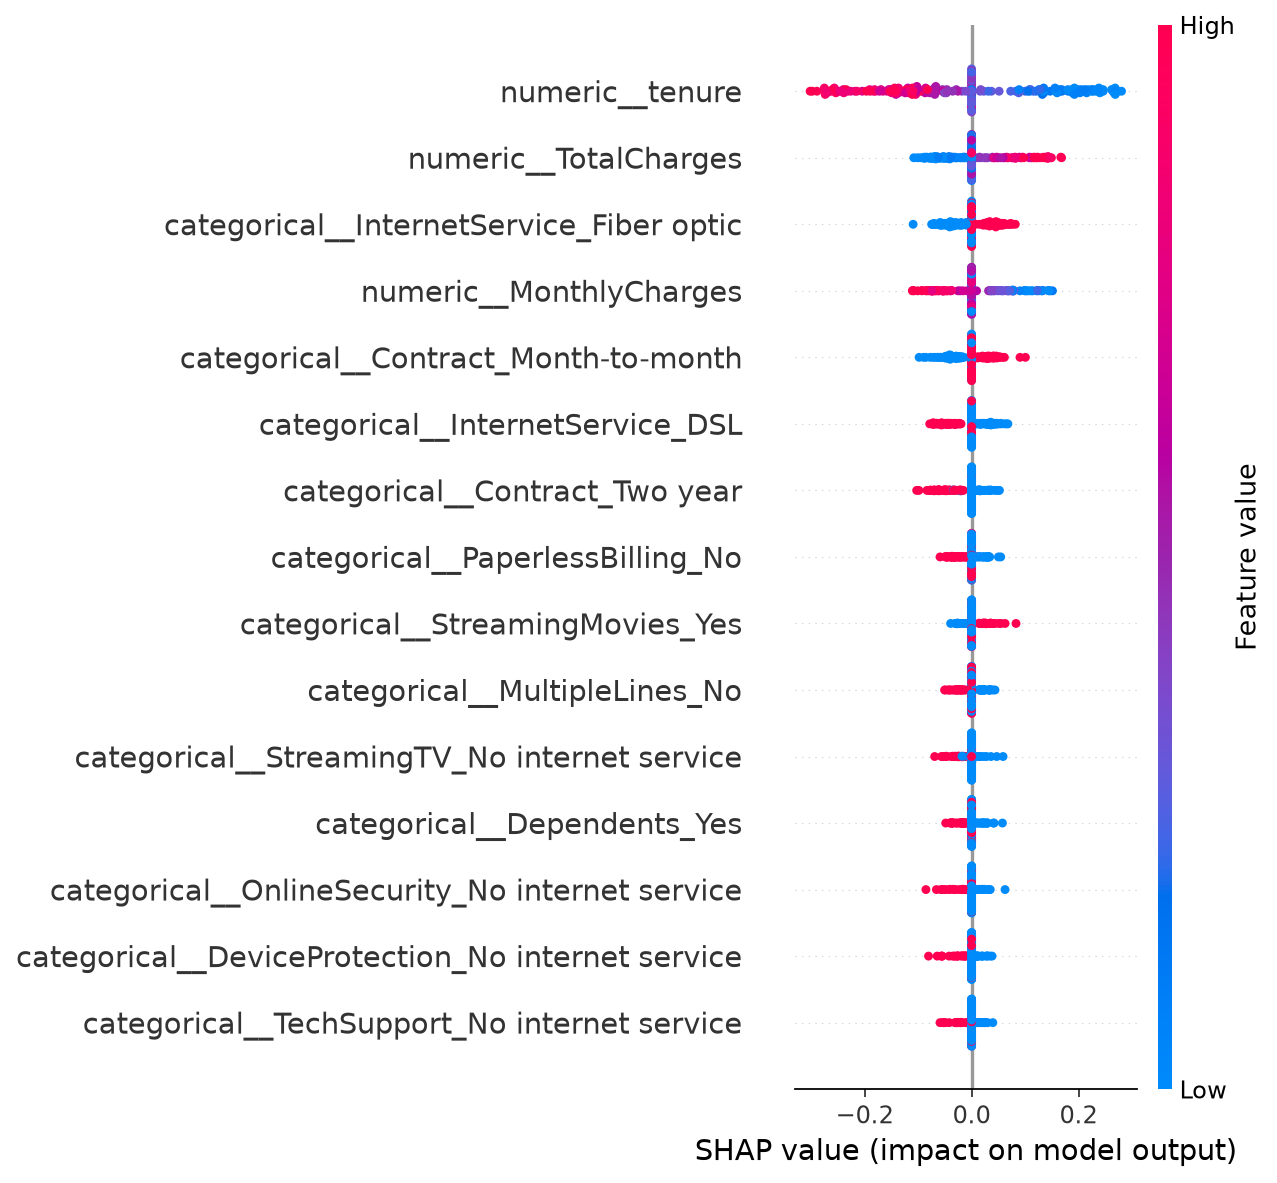
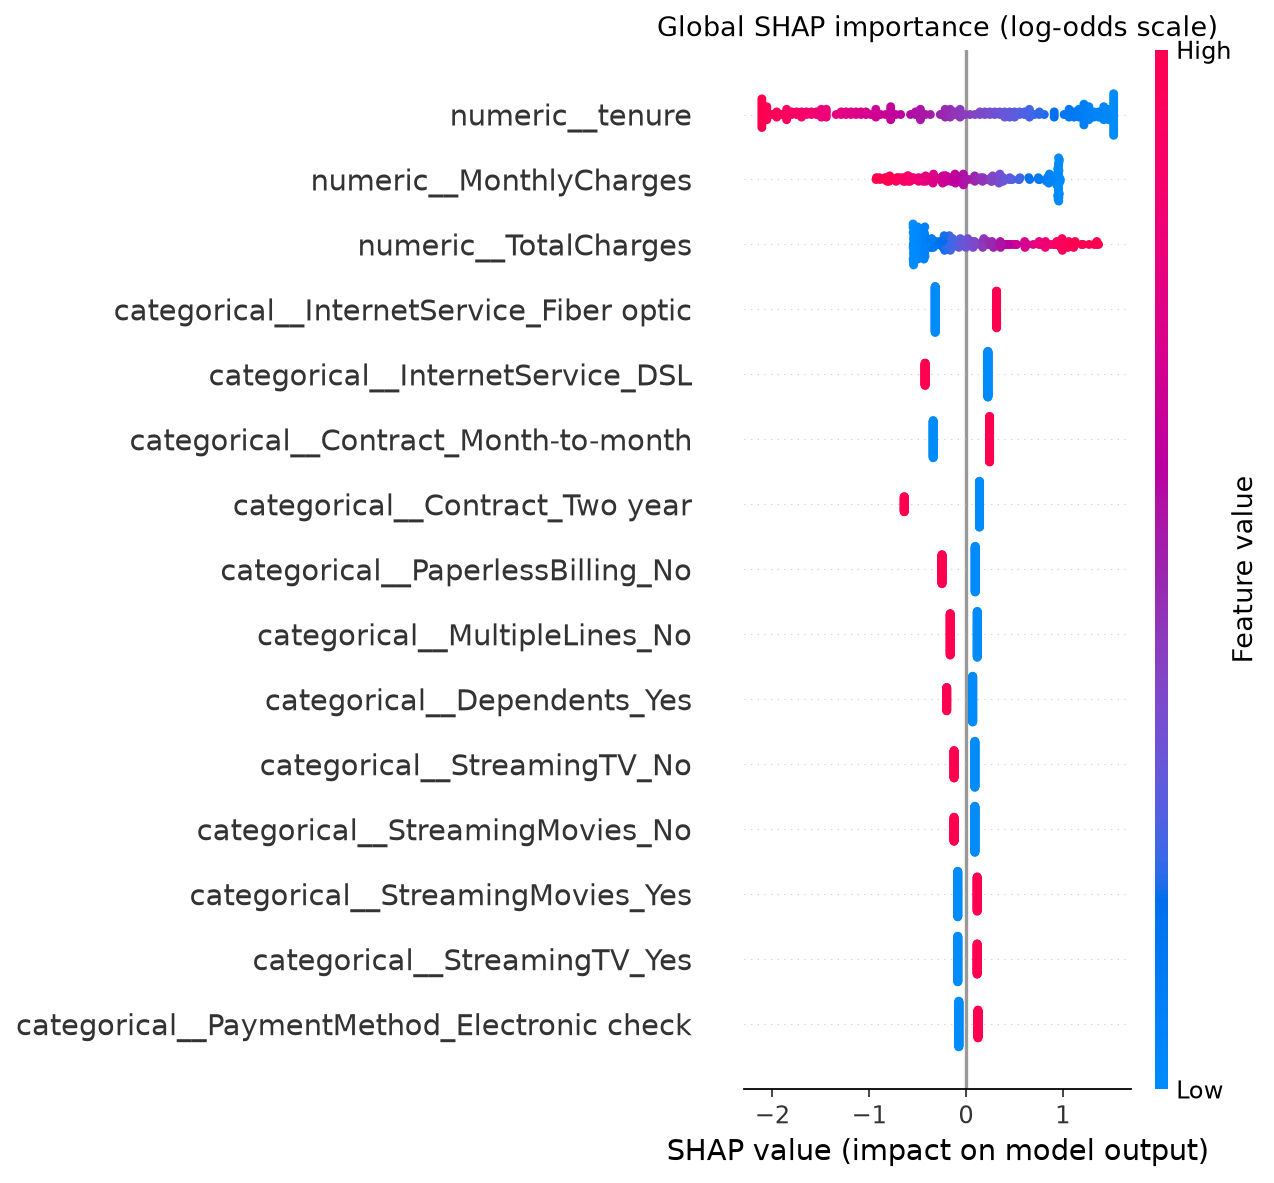
Improve churn explanations with linear SHAP

diff --git a/scripts/explain_customer.py b/scripts/explain_customer.py
@@ -1,90 +1,75 @@
-"""Explain an individual customer churn prediction with SHAP."""
-
+"""Explain the highest-risk test customer using linear SHAP values."""
 from pathlib import Path
 
 import joblib
+import numpy as np
 import pandas as pd
 import shap
 
 DATA_DIR = Path("data/processed/splits")
 MODEL_PATH = Path("models/logistic_regression.joblib")
-OUTPUT_DIR = Path("reports")
+OUTPUT_PATH = Path("reports/individual_shap_explanation.csv")
 RANDOM_STATE = 42
 
 
-def main() -> None:
-    """Explain the highest-risk customer in the held-out test set."""
+def main():
     X_train = pd.read_csv(DATA_DIR / "X_train.csv")
     X_test = pd.read_csv(DATA_DIR / "X_test.csv")
-    y_test = pd.read_csv(DATA_DIR / "y_test.csv")["Churn"]
-
+    y_test = pd.read_csv(DATA_DIR / "y_test.csv").squeeze()
     model = joblib.load(MODEL_PATH)
-    probabilities = model.predict_proba(X_test)[:, 1]
 
-    # Select the highest predicted-risk test customer for illustration.
-    customer_position = int(probabilities.argmax())
-    customer = X_test.iloc[[customer_position]]
-    actual_churn = int(y_test.iloc[customer_position])
-    probability = float(probabilities[customer_position])
+    probabilities = model.predict_proba(X_test)[:, 1]
+    position = int(probabilities.argmax())
+    customer = X_test.iloc[[position]]
+    probability = float(probabilities[position])
+    actual_churn = int(y_test.iloc[position])
 
     preprocessor = model.named_steps["preprocessor"]
     classifier = model.named_steps["model"]
 
     background = X_train.sample(
-        n=min(50, len(X_train)),
-        random_state=RANDOM_STATE,
+        n=min(100, len(X_train)), random_state=RANDOM_STATE
     )
-
     background_transformed = preprocessor.transform(background)
     customer_transformed = preprocessor.transform(customer)
     feature_names = preprocessor.get_feature_names_out()
 
-    def predict_churn_probability(transformed_data):
-        return classifier.predict_proba(transformed_data)[:, 1]
+    explainer = shap.LinearExplainer(classifier, background_transformed)
+    shap_values = np.asarray(explainer.shap_values(customer_transformed))
 
-    explainer = shap.KernelExplainer(
-        predict_churn_probability,
-        background_transformed,
-    )
-    shap_values = explainer.shap_values(
-        customer_transformed,
-        nsamples=100,
-    )
+    if shap_values.ndim == 3:
+        shap_values = shap_values[:, :, -1]
+
+    values = shap_values.reshape(-1)
+    if len(values) != len(feature_names):
+        raise ValueError(f"Unexpected SHAP shape: {shap_values.shape}")
 
     contributions = pd.DataFrame(
         {
             "feature": feature_names,
-            "transformed_value": customer_transformed[0],
-            "shap_value": shap_values[0],
+            "transformed_value": np.asarray(customer_transformed).reshape(-1),
+            "shap_value": values,
         }
     )
     contributions["absolute_shap"] = contributions["shap_value"].abs()
     contributions = contributions.sort_values(
         "absolute_shap", ascending=False
-    )
+    ).reset_index(drop=True)
 
-    OUTPUT_DIR.mkdir(parents=True, exist_ok=True)
-    contributions.to_csv(
-        OUTPUT_DIR / "individual_shap_explanation.csv",
-        index=False,
-    )
+    OUTPUT_PATH.parent.mkdir(parents=True, exist_ok=True)
+    contributions.to_csv(OUTPUT_PATH, index=False)
 
-    print("INDIVIDUAL CUSTOMER EXPLANATION")
-    print(f"Test-set row position: {customer_position}")
-    print(f"Actual churn label: {actual_churn} (1=churn, 0=stay)")
+    print(f"Test row position: {position}")
+    print(f"Actual churn label: {actual_churn}")
     print(f"Predicted churn probability: {probability:.4f}")
-    print("\nLargest feature contributions:")
+    print("SHAP contributions are in log-odds units.")
+    print("\nTop 10 contributing features:")
     print(
         contributions[
             ["feature", "transformed_value", "shap_value"]
-        ].head(10).round(4).to_string(index=False)
+        ].head(10).round(6).to_string(index=False)
     )
-    print("\nPositive SHAP values push the prediction toward churn.")
-    print("Negative SHAP values push the prediction away from churn.")
-    print(
-        "\nSaved explanation to "
-        "reports/individual_shap_explanation.csv"
-    )
+    print(f"\nSaved: {OUTPUT_PATH}")
 
 
 if __name__ == "__main__":

diff --git a/scripts/explain_model.py b/scripts/explain_model.py
@@ -1,13 +1,12 @@
-"""Explain churn predictions with SHAP."""
-
+"""Explain the churn model using linear SHAP values."""
 from pathlib import Path
 
 import joblib
 import matplotlib
 
 matplotlib.use("Agg")
-
 import matplotlib.pyplot as plt
+import numpy as np
 import pandas as pd
 import shap
 
@@ -17,20 +16,16 @@ OUTPUT_DIR = Path("reports")
 RANDOM_STATE = 42
 
 
-def main() -> None:
-    """Create a global SHAP summary for the saved model."""
+def main():
     X_train = pd.read_csv(DATA_DIR / "X_train.csv")
     X_test = pd.read_csv(DATA_DIR / "X_test.csv")
     model = joblib.load(MODEL_PATH)
 
-    # Keep runtime manageable while retaining representative samples.
     background = X_train.sample(
-        n=min(100, len(X_train)),
-        random_state=RANDOM_STATE,
+        n=min(100, len(X_train)), random_state=RANDOM_STATE
     )
     explain_rows = X_test.sample(
-        n=min(200, len(X_test)),
-        random_state=RANDOM_STATE,
+        n=min(200, len(X_test)), random_state=RANDOM_STATE
     )
 
     preprocessor = model.named_steps["preprocessor"]
@@ -38,31 +33,29 @@ def main() -> None:
 
     background_transformed = preprocessor.transform(background)
     explain_transformed = preprocessor.transform(explain_rows)
-
     feature_names = preprocessor.get_feature_names_out()
 
-    # Explain the positive-class probability.
-    def predict_churn_probability(transformed_data):
-        return classifier.predict_proba(transformed_data)[:, 1]
+    explainer = shap.LinearExplainer(classifier, background_transformed)
+    shap_values = np.asarray(explainer.shap_values(explain_transformed))
 
-    explainer = shap.KernelExplainer(
-        predict_churn_probability,
-        background_transformed,
-    )
-    shap_values = explainer.shap_values(
-        explain_transformed,
-        nsamples=100,
-    )
+    if shap_values.ndim == 3:
+        shap_values = shap_values[:, :, -1]
+
+    if shap_values.shape != (len(explain_rows), len(feature_names)):
+        raise ValueError(f"Unexpected SHAP shape: {shap_values.shape}")
 
     OUTPUT_DIR.mkdir(parents=True, exist_ok=True)
 
-    summary = pd.DataFrame(
-        {
-            "feature": feature_names,
-            "mean_abs_shap": abs(shap_values).mean(axis=0),
-        }
-    ).sort_values("mean_abs_shap", ascending=False)
-
+    summary = (
+        pd.DataFrame(
+            {
+                "feature": feature_names,
+                "mean_abs_shap": np.abs(shap_values).mean(axis=0),
+            }
+        )
+        .sort_values("mean_abs_shap", ascending=False)
+        .reset_index(drop=True)
+    )
     summary.to_csv(OUTPUT_DIR / "shap_global_importance.csv", index=False)
 
     plt.figure(figsize=(10, 7))
@@ -73,18 +66,15 @@ def main() -> None:
         max_display=15,
         show=False,
     )
+    plt.title("Global SHAP importance (log-odds scale)")
     plt.tight_layout()
-    plt.savefig(
-        OUTPUT_DIR / "shap_summary.png",
-        dpi=160,
-        bbox_inches="tight",
-    )
+    plt.savefig(OUTPUT_DIR / "shap_summary.png", dpi=160, bbox_inches="tight")
     plt.close()
 
-    print("\nTOP 15 GLOBAL SHAP FEATURES")
+    print("Global SHAP importance (log-odds scale)")
     print(summary.head(15).to_string(index=False))
-    print(f"\nSaved importance table: {OUTPUT_DIR / 'shap_global_importance.csv'}")
-    print(f"Saved summary plot: {OUTPUT_DIR / 'shap_summary.png'}")
+    print(f"\nSaved: {OUTPUT_DIR / 'shap_global_importance.csv'}")
+    print(f"Saved: {OUTPUT_DIR / 'shap_summary.png'}")
 
 
 if __name__ == "__main__":
